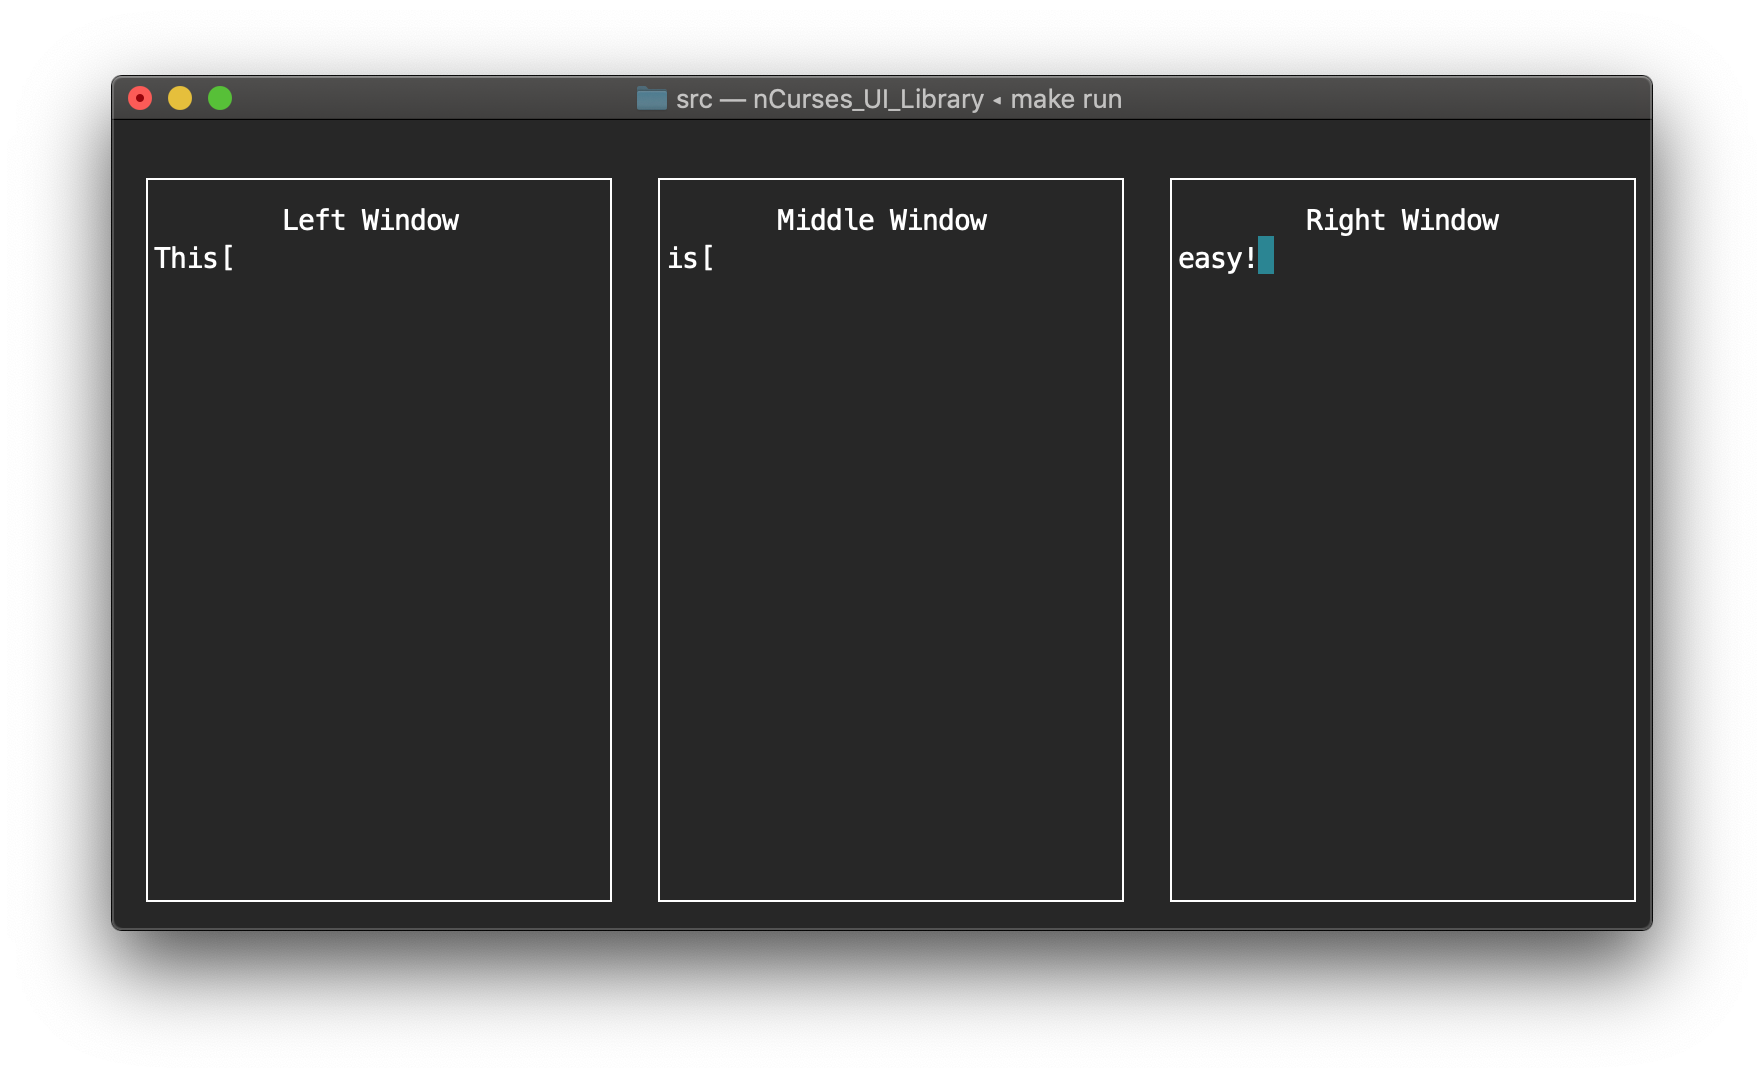
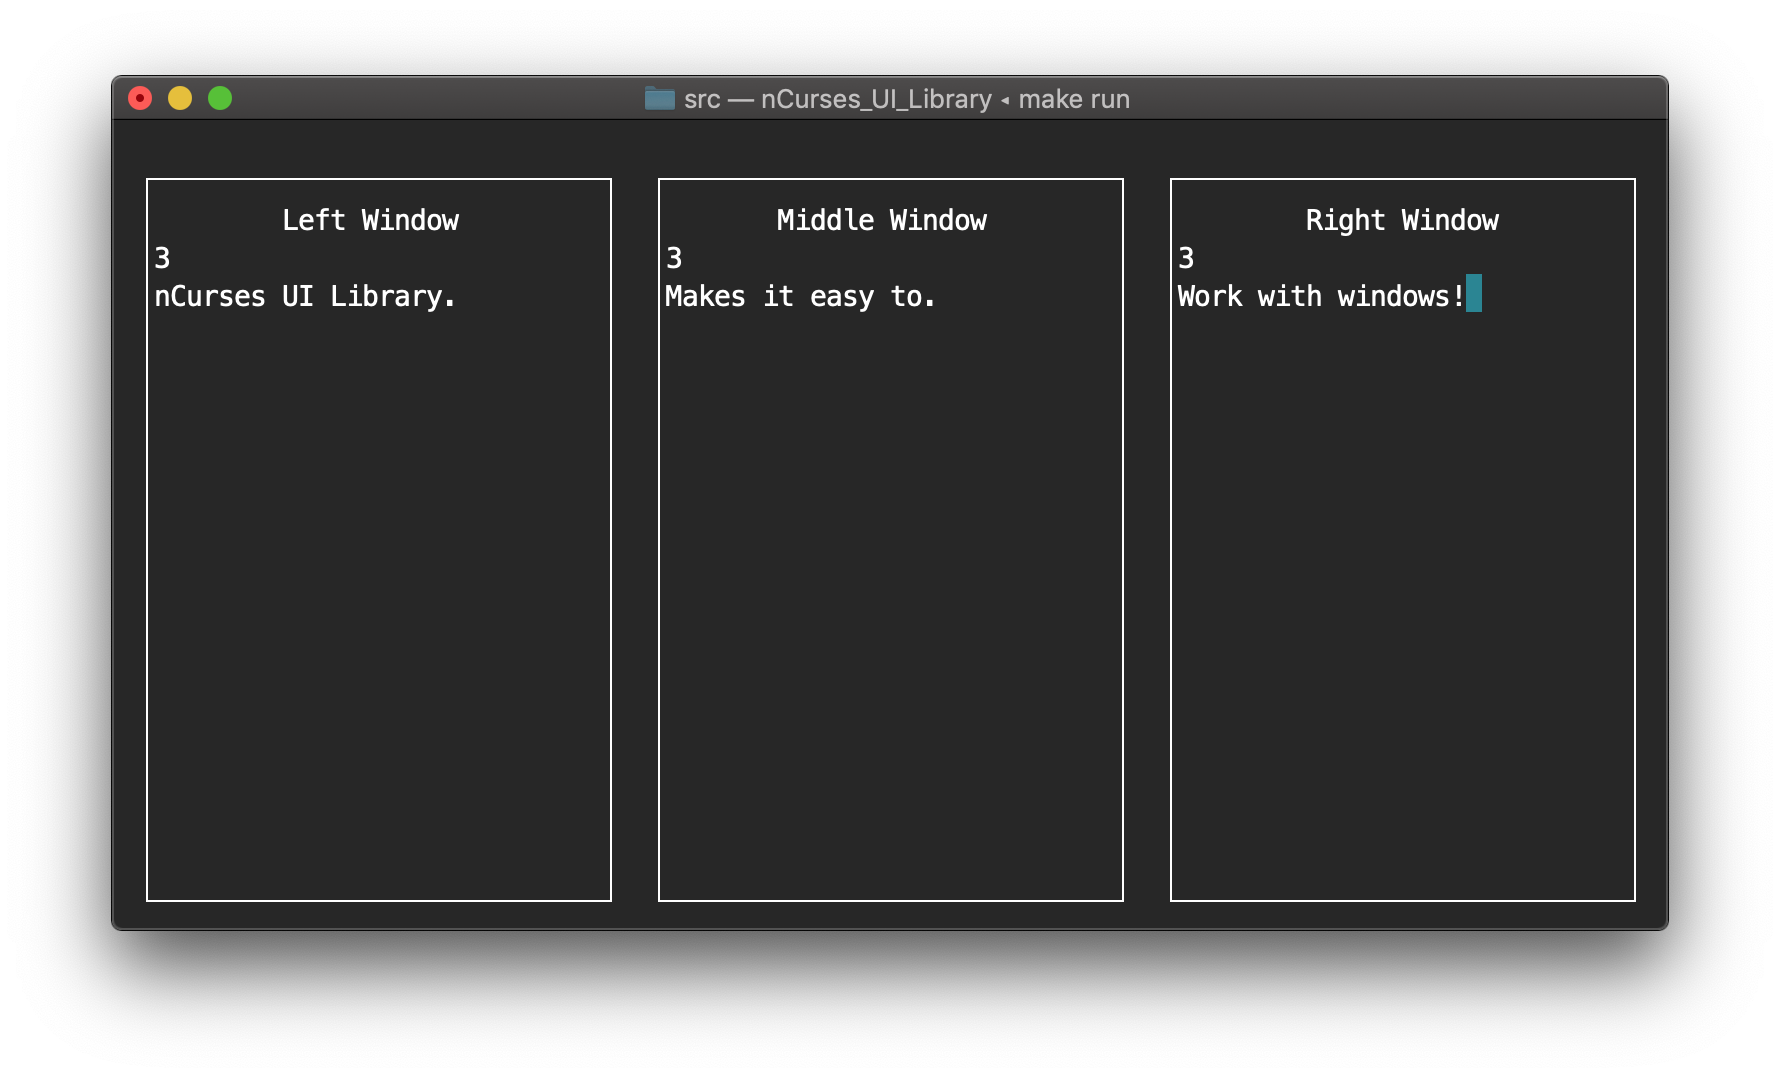
Updated README example and screenshot

diff --git a/README.md b/README.md
@@ -81,7 +81,7 @@ int main()
     // Make windows
     // Note: window creation is a dynamic procedure
     ui.make_new_window (x + (0 * (x_window_distance + width)), y, width, height, "Left Window", false);
-    ui.make_new_window (x + (1 * (x_window_distance + width)), y, width, height, "Middle Window", true);
+    ui.make_new_window (x + (1 * (x_window_distance + width)), y, width, height, "Middle Window", false);
     ui.make_new_window (x + (2 * (x_window_distance + width)), y, width, height, "Right Window", false);
 
     // Enumerations to make remembering a window easier
@@ -94,8 +94,8 @@ int main()
 
     ui.write_to_all_windows (std::to_string (ui.get_number_of_windows()), true);
 
-    // Random character used to break input loops
-    const char input_break = '[';
+    // Random character used to break input loops and advance to the next window
+    const char input_break = '.';
 
     // Live input into each of the windows
     while (ui.live_input (left,   false) != input_break);
